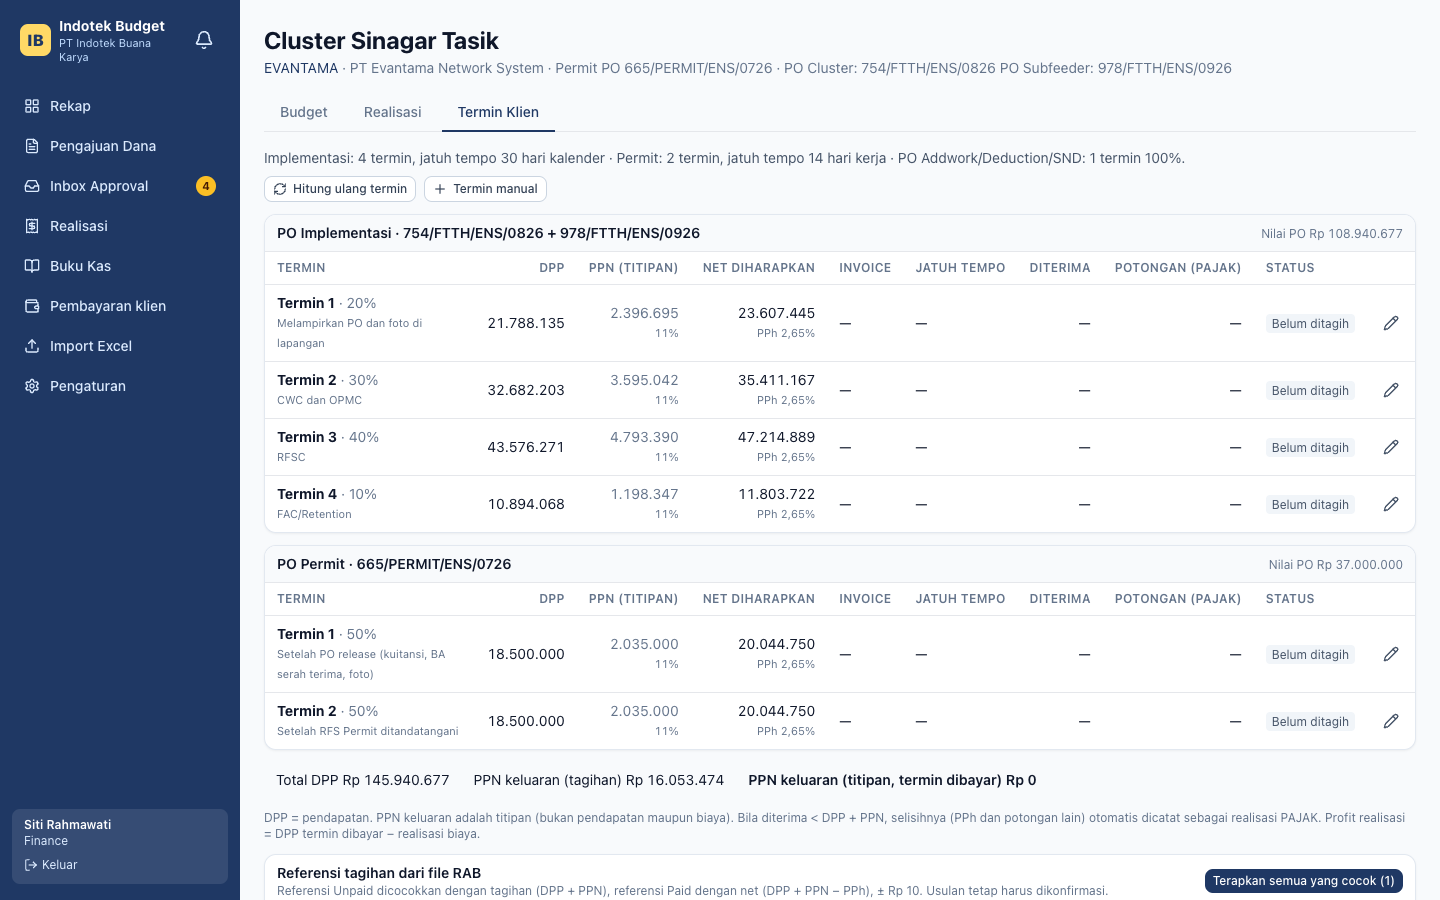
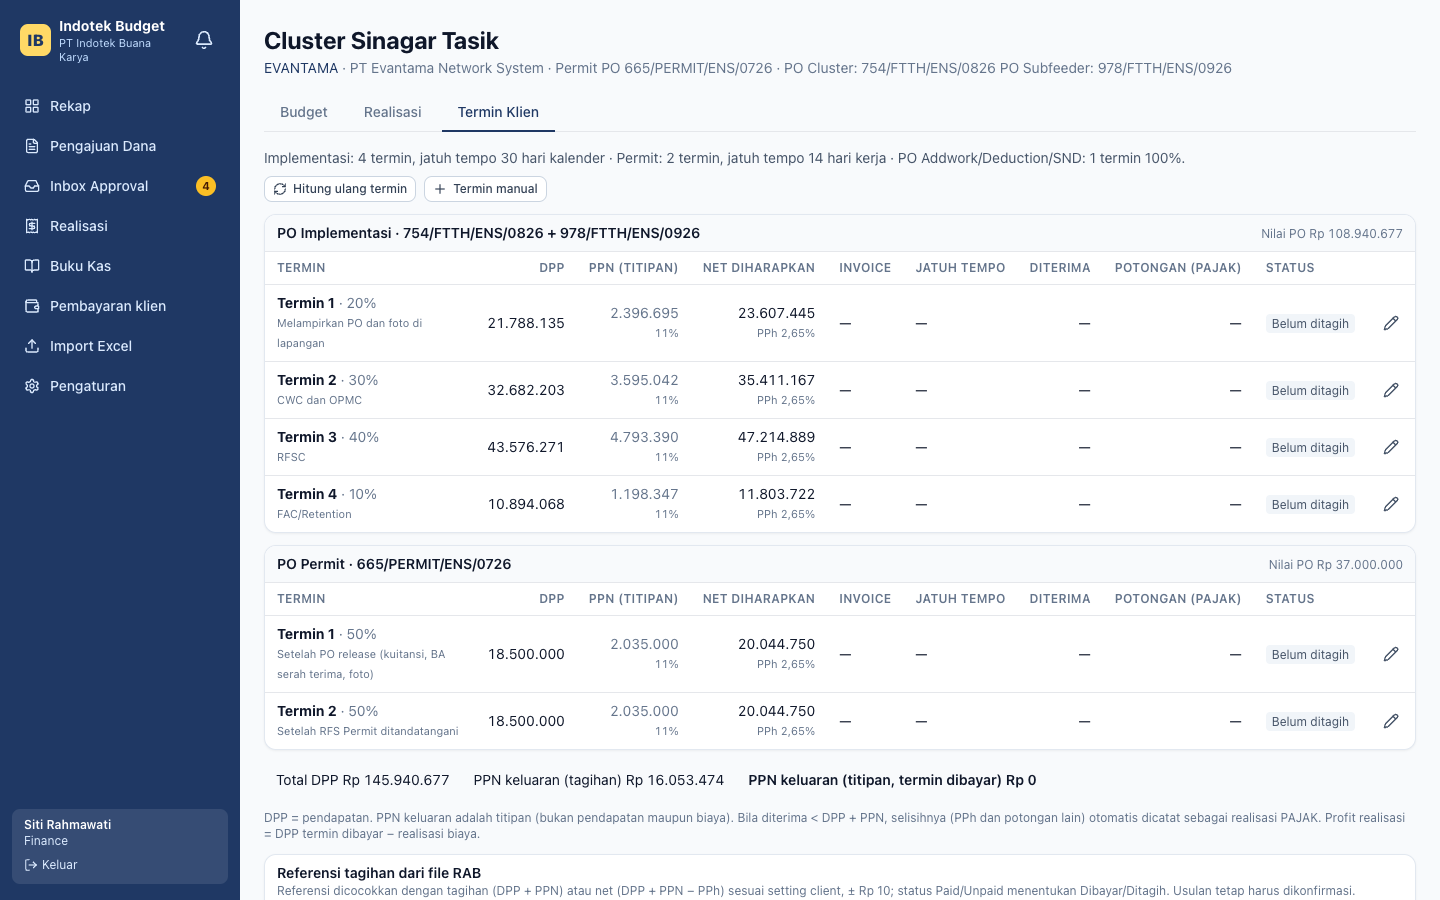
feat: nilai referensi RAB per client (INVOICE_TOTAL / NET); EVANTAMA = NET (patch 2.6)
- Client.referenceValueType; pencocokan memakai tagihan atau net sesuai client; status Paid/Unpaid hanya menentukan PAID vs INVOICED
- PATCH /clients/:id/reference-value-type (ADMIN, diaudit) + pilihan di Data Master

Changed region(s): [[0.2188, 0.9644, 1.0, 0.9956]]

diff --git a/apps/api/test/phase23.e2e-spec.ts b/apps/api/test/phase23.e2e-spec.ts
@@ -350,7 +350,10 @@ describe('Perbaikan 2.4 — PPN per client, pencocokan "cocok di DPP", pembayara
     await ctx.api('admin').patch(`/clients/${ccsi.id}/ppn`, { ppnRate: original }).expect(200);
   });
 
-  it('aturan C: referensi Unpaid = tagihan (DPP + PPN); referensi = DPP termin → "cocok di DPP" (perlu konfirmasi pajak), tidak diterapkan otomatis', async () => {
+  it('nilai referensi per client: EVANTAMA = NET untuk semua status (Unpaid → INVOICED); referensi = DPP termin → "cocok di DPP" (perlu konfirmasi pajak)', async () => {
+    const ev = await ctx.prisma.client.findUniqueOrThrow({ where: { name: 'PT Evantama Network System' } });
+    expect(ev.referenceValueType).toBe('NET');
+    await ctx.api('finance').patch(`/clients/${ev.id}/reference-value-type`, { referenceValueType: 'INVOICE_TOTAL' }).expect(403);
     const rw04 = await clusterId(ctx.prisma, 'EVANTAMA', 'Cluster Kersanagara RW 04 Tasik');
     const c = await cluster(rw04);
     const list0 = await ctx.api('finance').get(`/clusters/${rw04}/client-payments`).expect(200);
@@ -364,12 +367,19 @@ describe('Perbaikan 2.4 — PPN per client, pencocokan "cocok di DPP", pembayara
     const res = await ctx.api('finance').post(`/clusters/${rw04}/client-payments/apply-matched`, { refIds: [dpp.id] }).expect(201);
     expect(res.body.applied).toEqual([]);
     await ctx.prisma.clientInvoiceRef.delete({ where: { id: dpp.id } });
-    // Unpaid = tagihan DPP + PPN → cocok (INVOICE) → diterapkan sebagai INVOICED
-    const inv = await ctx.prisma.clientInvoiceRef.create({
-      data: { sourceRef: 'UJI:INV', projectId: c.projectId, clusterId: rw04, termin: 1, invoiceNo: 'INV-UJI-INV', netAmount: t1.invoiceTotal, statusText: 'Unpaid', paid: false },
+    // tagihan DPP + PPN tidak cocok untuk client NET
+    const tagihan = await ctx.prisma.clientInvoiceRef.create({
+      data: { sourceRef: 'UJI:TAGIHAN', projectId: c.projectId, clusterId: rw04, termin: 1, invoiceNo: 'INV-UJI-TAG', netAmount: t1.invoiceTotal, statusText: 'Unpaid', paid: false },
     });
     list = await ctx.api('finance').get(`/clusters/${rw04}/client-payments`).expect(200);
-    expect(list.body.invoiceRefs.find((x: { id: string }) => x.id === inv.id).suggestion).toMatchObject({ mode: 'NET', basis: 'INVOICE', paymentId: t1.id });
+    expect(list.body.invoiceRefs.find((x: { id: string }) => x.id === tagihan.id).suggestion).toBeNull();
+    await ctx.prisma.clientInvoiceRef.delete({ where: { id: tagihan.id } });
+    // Unpaid = net DPP + PPN − PPh → cocok (NET) → diterapkan sebagai INVOICED
+    const inv = await ctx.prisma.clientInvoiceRef.create({
+      data: { sourceRef: 'UJI:INV', projectId: c.projectId, clusterId: rw04, termin: 1, invoiceNo: 'INV-UJI-INV', netAmount: t1.expectedNet, statusText: 'Unpaid', paid: false },
+    });
+    list = await ctx.api('finance').get(`/clusters/${rw04}/client-payments`).expect(200);
+    expect(list.body.invoiceRefs.find((x: { id: string }) => x.id === inv.id).suggestion).toMatchObject({ mode: 'NET', basis: 'NET', paymentId: t1.id });
     await ctx.api('finance').post(`/clusters/${rw04}/client-payments/apply-matched`, { refIds: [inv.id] }).expect(201);
     expect((await ctx.prisma.clientPayment.findUniqueOrThrow({ where: { id: t1.id } })).status).toBe('INVOICED');
     await ctx.prisma.clientInvoiceRef.update({ where: { id: inv.id }, data: { appliedPaymentId: null } });
@@ -400,7 +410,15 @@ describe('Perbaikan 2.4 — PPN per client, pencocokan "cocok di DPP", pembayara
       data: { sourceRef: 'UJI:CCSI-004', projectId: c.projectId, clusterId: null, invoiceNo: 'INV-UJI-004', netAmount: '16325969', statusText: 'Unpaid', paid: false },
     });
     const l2 = await ctx.api('finance').get(`/clusters/${kal}/client-payments`).expect(200);
-    expect(l2.body.invoiceRefs.find((x: { id: string }) => x.id === ref.id).suggestion).toMatchObject({ mode: 'NET', basis: 'INVOICE', paymentId: impl[0].id, termin: 1 });
+    // termin terkecil yang belum diambil referensi lain (INV-RAA/004 asli bisa sudah mengambil termin 1 bila RAB diimpor lebih dulu)
+    const takenByOthers = new Set(
+      l2.body.invoiceRefs
+        .filter((x: { id: string }) => x.id !== ref.id)
+        .map((x: { suggestion: { paymentId: string } | null; appliedPaymentId: string | null }) => x.suggestion?.paymentId ?? x.appliedPaymentId)
+        .filter(Boolean),
+    );
+    const expected = impl.slice(0, 3).find((p: { id: string; status: string }) => !takenByOthers.has(p.id) && p.status !== 'PAID');
+    expect(l2.body.invoiceRefs.find((x: { id: string }) => x.id === ref.id).suggestion).toMatchObject({ mode: 'NET', basis: 'INVOICE_TOTAL', paymentId: expected.id, termin: expected.termin });
     await ctx.prisma.clientInvoiceRef.delete({ where: { id: ref.id } });
   });
 

diff --git a/apps/api/src/realization/client-payments.service.ts b/apps/api/src/realization/client-payments.service.ts
@@ -130,12 +130,12 @@ function flat(p: ClientPayment | null) {
 
 export interface RefSuggestion {
   /**
-   * NET = nilai referensi cocok dengan nilai pembanding aturan C (Paid: DPP + PPN − PPh; Unpaid: DPP + PPN);
+   * NET = nilai referensi cocok dengan nilai pembanding sesuai setting client (Client.referenceValueType);
    * DPP = nilai referensi = DPP termin (tanpa PPN/PPh) — perlu konfirmasi pajak.
    */
   mode: 'NET' | 'DPP';
-  /** Nilai pembanding yang dipakai: NET_PAID (net diharapkan), INVOICE (tagihan), DPP. */
-  basis: 'NET_PAID' | 'INVOICE' | 'DPP';
+  /** Nilai pembanding yang dipakai (setting client): NET (DPP + PPN − PPh), INVOICE_TOTAL (DPP + PPN), atau DPP. */
+  basis: 'NET' | 'INVOICE_TOTAL' | 'DPP';
   /** Mode DPP: perlu konfirmasi pajak (mis. invoice tanpa PPN) — tidak ikut "Terapkan semua yang cocok". */
   perluKonfirmasiPajak: boolean;
   paymentId: string;
@@ -153,6 +153,8 @@ export interface RefSuggestion {
  * Satu termin hanya diusulkan untuk satu referensi (yang pertama, urut invoice).
  */
 export async function referenceMatches(db: Db, projectId: string) {
+  const project = await db.project.findUniqueOrThrow({ where: { id: projectId }, include: { client: true } });
+  const valueType = project.client.referenceValueType;
   const refs = await db.clientInvoiceRef.findMany({ where: { projectId }, orderBy: [{ blockTitle: 'asc' }, { termin: 'asc' }, { invoiceNo: 'asc' }] });
   const payments = await db.clientPayment.findMany({
     where: { cluster: { projectId }, status: { not: 'PAID' }, invoiceRefs: { none: {} } },
@@ -165,10 +167,10 @@ export async function referenceMatches(db: Db, projectId: string) {
       out.set(r.id, { suggestion: null, ambiguous: false });
       continue;
     }
-    // aturan C: Paid → net diharapkan (DPP + PPN − PPh); Unpaid → tagihan (DPP + PPN)
+    // nilai pembanding per client (INVOICE_TOTAL / NET); status Paid/Unpaid hanya menentukan PAID vs INVOICED
     const cands = payments
       .filter((p) => !taken.has(p.id) && (!r.clusterId || p.clusterId === r.clusterId))
-      .map((p) => ({ id: p.id, termin: p.termin, expectedNet: referenceTarget(paymentTax(p), r.paid), group: p.poId, p }));
+      .map((p) => ({ id: p.id, termin: p.termin, expectedNet: referenceTarget(paymentTax(p), valueType), group: p.poId, p }));
     let m = matchReferenceToTermin({ netAmount: r.netAmount?.toString() ?? null, termin: r.termin }, cands);
     let mode: 'NET' | 'DPP' = 'NET';
     if (!m.match && !m.ambiguous) {
@@ -188,7 +190,7 @@ export async function referenceMatches(db: Db, projectId: string) {
       out.set(r.id, {
         suggestion: {
           mode,
-          basis: mode === 'DPP' ? 'DPP' : r.paid ? 'NET_PAID' : 'INVOICE',
+          basis: mode === 'DPP' ? 'DPP' : valueType,
           perluKonfirmasiPajak: mode === 'DPP',
           paymentId: m.match.id,
           clusterId: m.match.p.clusterId,
@@ -202,7 +204,7 @@ export async function referenceMatches(db: Db, projectId: string) {
       });
     } else out.set(r.id, { suggestion: null, ambiguous: m.ambiguous });
   }
-  return { refs, matches: out };
+  return { refs, matches: out, valueType };
 }
 
 /**

diff --git a/apps/api/scripts/apply-ccsi.ts b/apps/api/scripts/apply-ccsi.ts
@@ -16,7 +16,7 @@ import type { AuthUser } from '../src/auth/auth.types';
 async function report(prisma: PrismaClient, code: string) {
   const f = (v: { toString(): string }) => formatAngka(moneyStr(v.toString()));
   const project = await prisma.project.findUniqueOrThrow({ where: { code } });
-  const { refs, matches } = await referenceMatches(prisma, project.id);
+  const { refs, matches, valueType } = await referenceMatches(prisma, project.id);
   const payments = await prisma.clientPayment.findMany({ where: { cluster: { projectId: project.id } }, include: { cluster: true } });
   console.log(`\n=== ${code}: ${refs.length} referensi`);
   for (const r of refs) {
@@ -25,11 +25,11 @@ async function report(prisma: PrismaClient, code: string) {
     if (r.appliedPaymentId) {
       const p = payments.find((x) => x.id === r.appliedPaymentId)!;
       const tax = paymentTax(p);
-      const target = r.paid ? tax.expectedNet : tax.invoiceTotal;
+      const target = valueType === 'NET' ? tax.expectedNet : tax.invoiceTotal;
       const ok = dec(r.netAmount?.toString() ?? 0).minus(target).abs().lte(10);
-      line = `SUDAH DITERAPKAN → ${p.cluster.name} ${p.kind} termin ${p.termin} [${p.status}] · aturan C ${r.paid ? 'net' : 'tagihan'} ${f(target)} → ${ok ? 'tetap cocok' : `TIDAK cocok lagi (nilai referensi = net ${f(tax.expectedNet)})`}`;
+      line = `SUDAH DITERAPKAN → ${p.cluster.name} ${p.kind} termin ${p.termin} [${p.status}] · ${valueType === 'NET' ? 'net' : 'tagihan'} ${f(target)} → ${ok ? 'cocok' : 'TIDAK cocok'}`;
     } else if (m?.suggestion) {
-      line = `${m.suggestion.mode === 'DPP' ? 'COCOK DI DPP (perlu konfirmasi pajak)' : `COCOK (${m.suggestion.basis === 'INVOICE' ? 'tagihan DPP + PPN' : 'net DPP + PPN − PPh'})`} → ${m.suggestion.clusterName} ${m.suggestion.kind} termin ${m.suggestion.termin} (${f(m.suggestion.expectedNet)})`;
+      line = `${m.suggestion.mode === 'DPP' ? 'COCOK DI DPP (perlu konfirmasi pajak)' : `COCOK (${m.suggestion.basis === 'INVOICE_TOTAL' ? 'tagihan DPP + PPN' : 'net DPP + PPN − PPh'})`} → ${m.suggestion.clusterName} ${m.suggestion.kind} termin ${m.suggestion.termin} (${f(m.suggestion.expectedNet)})`;
     } else {
       // petunjuk: apakah nilainya sama dengan net diharapkan suatu termin (pola aturan lama)?
       const cands = payments.filter((p) => !r.clusterId || p.clusterId === r.clusterId).map((p) => ({ id: p.id, termin: p.termin, expectedNet: paymentTax(p).expectedNet, p }));

diff --git a/apps/web/src/pages/MasterPage.tsx b/apps/web/src/pages/MasterPage.tsx
@@ -5,6 +5,7 @@ import { Link } from 'react-router-dom';
 import { ROLE_LABEL } from '@indotek/shared';
 import { api, errorMessage } from '../api/client';
 import type { Client, Project } from '../api/types';
+import { REFERENCE_VALUE_TYPES, REFERENCE_VALUE_TYPE_LABEL } from '@indotek/shared';
 import { pctInputToRatio, ratioToPctInput } from '../lib/format';
 import { useAuth } from '../auth/AuthContext';
 import { ErrorBox, Field, Modal, PageHeader, Spinner } from '../components/ui';
@@ -131,6 +132,10 @@ function ClientPpnRow({ client }: { client: Client }) {
   const [edit, setEdit] = useState(false);
   const [v, setV] = useState(client.ppnRate != null ? ratioToPctInput(client.ppnRate) : '');
   const [reason, setReason] = useState('');
+  const saveRef = useMutation({
+    mutationFn: (referenceValueType: string) => api(`/clients/${client.id}/reference-value-type`, { method: 'PATCH', json: { referenceValueType } }),
+    onSuccess: () => qc.invalidateQueries({ queryKey: ['clients'] }),
+  });
   const save = useMutation({
     mutationFn: () => api(`/clients/${client.id}/ppn`, { method: 'PATCH', json: { ppnRate: v.trim() === '' ? null : pctInputToRatio(v), reason: reason || null } }),
     onSuccess: async () => {
@@ -146,6 +151,22 @@ function ClientPpnRow({ client }: { client: Client }) {
           PPN termin: {client.ppnRate != null ? `${ratioToPctInput(client.ppnRate)}%` : 'ikut global'}
           {can('ADMIN') && !edit && <button className="ml-2 text-brand hover:underline" onClick={() => setEdit(true)}>ubah</button>}
         </span>
+      </div>
+      <div className="mt-0.5 flex items-center justify-end gap-2 text-xs text-slate-500">
+        Nilai referensi RAB:
+        {can('ADMIN') ? (
+          <select
+            className="input w-auto py-0.5 text-xs"
+            value={client.referenceValueType ?? 'INVOICE_TOTAL'}
+            disabled={saveRef.isPending}
+            onChange={(e) => saveRef.mutate(e.target.value)}
+            aria-label={`Nilai referensi ${client.name}`}
+          >
+            {REFERENCE_VALUE_TYPES.map((t) => <option key={t} value={t}>{REFERENCE_VALUE_TYPE_LABEL[t]}</option>)}
+          </select>
+        ) : (
+          <span>{REFERENCE_VALUE_TYPE_LABEL[client.referenceValueType ?? 'INVOICE_TOTAL']}</span>
+        )}
       </div>
       {edit && (
         <div className="mt-1 flex flex-wrap items-center gap-2">

diff --git a/apps/api/scripts/split-evantama-po.ts b/apps/api/scripts/split-evantama-po.ts
@@ -66,7 +66,7 @@ async function main() {
 
   // simulasi pencocokan referensi implementasi yang belum diterapkan
   const refs = await prisma.clientInvoiceRef.findMany({ where: { projectId: project.id, appliedPaymentId: null, blockTitle: { contains: 'Implementasi' } } });
-  console.log('\n=== Simulasi pencocokan referensi implementasi setelah pemecahan (aturan C: Paid → DPP + PPN − PPh; Unpaid → DPP + PPN; ± Rp 10)');
+  console.log(`\n=== Simulasi pencocokan referensi implementasi setelah pemecahan (nilai referensi client: ${project.client.referenceValueType}; ± Rp 10)`);
   const taken = new Set<string>();
   let ok = 0;
   for (const r of refs) {
@@ -74,16 +74,16 @@ async function main() {
     const sub = /subfeeder/i.test(block);
     const cands = simTermins
       .filter((t) => !taken.has(t.id) && t.label.includes(sub ? 'SUBFEEDER' : 'CLUSTER'))
-      .map((t) => ({ ...t, expectedNet: moneyStr(referenceTarget(t, r.paid)) }));
+      .map((t) => ({ ...t, expectedNet: moneyStr(referenceTarget(t, project.client.referenceValueType)) }));
     const m = matchReferenceToTermin({ netAmount: r.netAmount?.toString() ?? null, termin: r.termin }, cands);
     if (m.match) {
       taken.add(m.match.id);
       ok++;
     }
-    const byNet = !m.match && !r.paid ? simTermins.find((t) => dec(t.expectedNet).minus(dec(r.netAmount?.toString() ?? 0)).abs().lte(10)) : undefined;
+    const byNet = !m.match && project.client.referenceValueType !== 'NET' ? simTermins.find((t) => dec(t.expectedNet).minus(dec(r.netAmount?.toString() ?? 0)).abs().lte(10)) : undefined;
     console.log(
       `   ${r.invoiceNo} ${block} ${r.paid ? 'Paid' : 'Unpaid'} ${f(r.netAmount ?? 0)} → ${
-        m.match ? `COCOK ${m.match.label} (${r.paid ? 'net' : 'tagihan'} ${f(m.match.expectedNet)})` : `tidak cocok${byNet ? ` (nilainya = net diharapkan ${byNet.label}, bukan tagihan)` : ''}`
+        m.match ? `COCOK ${m.match.label} (${project.client.referenceValueType === 'NET' ? 'net' : 'tagihan'} ${f(m.match.expectedNet)})` : `tidak cocok${byNet ? ` (nilainya = net diharapkan ${byNet.label}, bukan tagihan)` : ''}`
       }`,
     );
   }

diff --git a/apps/web/src/components/ClientPaymentsTab.tsx b/apps/web/src/components/ClientPaymentsTab.tsx
@@ -238,7 +238,7 @@ export function ClientPaymentsTab({ clusterId }: { clusterId: string }) {
         <div className="flex flex-wrap items-center justify-between gap-2 border-b px-3 py-2">
           <div>
             <h3 className="text-sm font-semibold">Referensi tagihan dari file RAB</h3>
-            <p className="text-xs text-slate-500">Referensi Unpaid dicocokkan dengan tagihan (DPP + PPN), referensi Paid dengan net (DPP + PPN − PPh), ± Rp 10. Usulan tetap harus dikonfirmasi.</p>
+            <p className="text-xs text-slate-500">Referensi dicocokkan dengan tagihan (DPP + PPN) atau net (DPP + PPN − PPh) sesuai setting client, ± Rp 10; status Paid/Unpaid menentukan Dibayar/Ditagih. Usulan tetap harus dikonfirmasi.</p>
           </div>
           {editable && matched.length > 0 && (
             <button className="btn-primary px-2 py-1 text-xs" onClick={() => setBulkOpen(true)}>Terapkan semua yang cocok ({matched.length})</button>
@@ -264,7 +264,7 @@ export function ClientPaymentsTab({ clusterId }: { clusterId: string }) {
                       </span>
                     ) : r.suggestion ? (
                       <span className="text-emerald-700">
-                        <b>cocok</b>{r.suggestion.basis === 'INVOICE' ? ' (tagihan)' : r.suggestion.basis === 'NET_PAID' ? ' (net dibayar)' : ''} → {r.suggestion.clusterId === clusterId ? termLabelById(r.suggestion.paymentId) : `${r.suggestion.clusterName} termin ${r.suggestion.termin}`}
+                        <b>cocok</b>{r.suggestion.basis === 'INVOICE_TOTAL' ? ' (tagihan)' : r.suggestion.basis === 'NET' ? ' (net)' : ''} → {r.suggestion.clusterId === clusterId ? termLabelById(r.suggestion.paymentId) : `${r.suggestion.clusterName} termin ${r.suggestion.termin}`}
                         {r.suggestion.selisih !== '0.00' && <span className="text-slate-500"> (selisih {formatAngka(r.suggestion.selisih, 2)})</span>}
                       </span>
                     ) : r.ambiguous ? (

diff --git a/apps/api/src/clients/clients.controller.ts b/apps/api/src/clients/clients.controller.ts
@@ -1,6 +1,6 @@
 import { Controller, Delete, Get, Param, Patch, Post, ConflictException } from '@nestjs/common';
 import { ApiCookieAuth, ApiTags } from '@nestjs/swagger';
-import { clientPpnSchema, clientSchema, type ClientPpnInput } from '@indotek/shared';
+import { clientPpnSchema, clientRefValueSchema, clientSchema, type ClientPpnInput, type ClientRefValueInput } from '@indotek/shared';
 import { rate, s } from '../common/decimal';
 import { PrismaService } from '../prisma/prisma.service';
 import { AuditService } from '../audit/audit.service';
@@ -52,6 +52,17 @@ export class ClientsController {
     const before = await this.prisma.client.findUniqueOrThrow({ where: { id } });
     const c = await this.prisma.client.update({ where: { id }, data: { ppnRate: body.ppnRate === null ? null : rate(body.ppnRate) } });
     await this.audit.diff(this.prisma, user.id, 'Client', id, { ppnRate: s(before.ppnRate), alasan: null }, { ppnRate: s(c.ppnRate), alasan: body.reason ?? null });
+    return c;
+  }
+
+  /** Nilai yang dicatat di referensi tagihan RAB client ini (INVOICE_TOTAL / NET) — dasar pencocokan. Khusus ADMIN. */
+  @Patch(':id/reference-value-type')
+  @Roles('ADMIN')
+  @ApiZodBody(clientRefValueSchema)
+  async setRefValue(@CurrentUser() user: AuthUser, @Param('id') id: string, @ZBody(clientRefValueSchema) body: ClientRefValueInput) {
+    const before = await this.prisma.client.findUniqueOrThrow({ where: { id } });
+    const c = await this.prisma.client.update({ where: { id }, data: { referenceValueType: body.referenceValueType } });
+    await this.audit.diff(this.prisma, user.id, 'Client', id, { referenceValueType: before.referenceValueType, alasan: null }, { referenceValueType: c.referenceValueType, alasan: body.reason ?? null });
     return c;
   }
 

diff --git a/apps/api/src/import/patch-2-6-ref-value.ts b/apps/api/src/import/patch-2-6-ref-value.ts
@@ -1,0 +1,22 @@
+import type { PrismaClient } from '@prisma/client';
+import type { AuditService } from '../audit/audit.service';
+
+export const PATCH_26 = '2.6-nilai-referensi-per-client';
+const ALASAN = 'keputusan user penutup Fase 2: RAB EVANTAMA mencatat nilai net (DPP + PPN − PPh) untuk semua status';
+
+/** Client EVANTAMA: referensi tagihan RAB bernilai NET. ADW & CCSI tetap INVOICE_TOTAL (default). Idempotent, diaudit. */
+export async function applyPatch26(prisma: PrismaClient, audit: AuditService, userId: string | null): Promise<string[]> {
+  if (await prisma.dataPatch.findUnique({ where: { name: PATCH_26 } })) return [];
+  const ev = await prisma.client.findUnique({ where: { name: 'PT Evantama Network System' } });
+  if (!ev) return ['Patch 2.6 ditunda: client Evantama belum ada'];
+  const log: string[] = [];
+  await prisma.$transaction(async (tx) => {
+    if (ev.referenceValueType !== 'NET') {
+      await tx.client.update({ where: { id: ev.id }, data: { referenceValueType: 'NET' } });
+      await audit.diff(tx, userId, 'Client', ev.id, { referenceValueType: ev.referenceValueType, alasan: null }, { referenceValueType: 'NET', alasan: ALASAN });
+      log.push('Client Evantama: referensi RAB = NET');
+    }
+    await tx.dataPatch.create({ data: { name: PATCH_26, note: log.join('; ') || 'sudah NET' } });
+  });
+  return log;
+}

diff --git a/packages/shared/src/calc/ppn.test.ts b/packages/shared/src/calc/ppn.test.ts
@@ -58,3 +58,19 @@ describe('Margin permit hanya PO PERMIT (SND dikeluarkan)', () => {
     expect(moneyStr(r.marginPermit)).toBe('-1081510.92');
   });
 });
+
+describe('Acuan W — nilai referensi per client (INVOICE_TOTAL / NET)', () => {
+  it('EVANTAMA NET: permit RW 08 4.875.750 = 4.500.000 + PPN 495.000 − PPh 119.250; Sinagar permit t2 20.044.750', async () => {
+    const { referenceTarget } = await import('./realization');
+    const rw08 = terminTax({ amount: '4500000', ppnRate: '0.11', pphRate: '0.0265' });
+    expect(moneyStr(rw08.ppn)).toBe('495000.00');
+    expect(moneyStr(rw08.pph)).toBe('119250.00');
+    expect(moneyStr(referenceTarget(rw08, 'NET'))).toBe('4875750.00');
+    expect(moneyStr(referenceTarget(rw08, 'INVOICE_TOTAL'))).toBe('4995000.00');
+    expect(moneyStr(referenceTarget(terminTax({ amount: '18500000', ppnRate: '0.11', pphRate: '0.0265' }), 'NET'))).toBe('20044750.00');
+  });
+  it('CCSI INVOICE_TOTAL dengan PPN 0: tagihan = DPP', async () => {
+    const { referenceTarget } = await import('./realization');
+    expect(moneyStr(referenceTarget(terminTax({ amount: '10212800', ppnRate: '0', pphRate: '0.025' }), 'INVOICE_TOTAL'))).toBe('10212800.00');
+  });
+});

diff --git a/packages/shared/src/calc/realization.ts b/packages/shared/src/calc/realization.ts
@@ -101,12 +101,13 @@ export function calcRealizedProfit(
 export const REF_MATCH_TOLERANCE = 10;
 
 /**
- * Nilai pembanding termin untuk referensi tagihan RAB (aturan Fase 2.4 C, semua client):
- *  - referensi Paid    → net diharapkan (DPP + PPN − PPh), diterapkan sebagai PAID;
- *  - referensi Unpaid  → nilai tagihan (DPP + PPN), diterapkan sebagai INVOICED.
+ * Nilai pembanding termin untuk referensi tagihan RAB — diatur PER CLIENT (keputusan penutup Fase 2):
+ *  - INVOICE_TOTAL (default; ADW, CCSI): referensi = tagihan DPP + PPN;
+ *  - NET (EVANTAMA): referensi = net DPP + PPN − PPh, untuk semua status.
+ * Status Paid/Unpaid di referensi hanya menentukan termin diterapkan sebagai PAID atau INVOICED.
  */
-export function referenceTarget(tax: { invoiceTotal: Num; expectedNet: Num }, paid: boolean): D {
-  return dec(paid ? tax.expectedNet : tax.invoiceTotal);
+export function referenceTarget(tax: { invoiceTotal: Num; expectedNet: Num }, valueType: 'INVOICE_TOTAL' | 'NET'): D {
+  return dec(valueType === 'NET' ? tax.expectedNet : tax.invoiceTotal);
 }
 
 /**

diff --git a/apps/api/prisma/seed.ts b/apps/api/prisma/seed.ts
@@ -11,6 +11,7 @@ import { applyPatch22 } from '../src/import/patch-2-2';
 import { applyPatch23 } from '../src/import/patch-2-3';
 import { applyPatch24 } from '../src/import/patch-2-4';
 import { applyCcsiDecisions } from '../src/import/patch-2-5-ccsi';
+import { applyPatch26 } from '../src/import/patch-2-6-ref-value';
 import { SettingsService } from '../src/settings/settings.service';
 import type { PrismaService } from '../src/prisma/prisma.service';
 
@@ -261,6 +262,8 @@ async function main() {
   if (patch24.length) console.log(`Patch keputusan 2.4: ${patch24.join('; ')}`);
   const patch25 = await applyCcsiDecisions(prisma, audit, admin?.id ?? null, true);
   if (patch25.length) console.log(`Patch keputusan CCSI (2.5): ${patch25.length} langkah`);
+  const patch26 = await applyPatch26(prisma, audit, admin?.id ?? null);
+  if (patch26.length) console.log(`Patch 2.6: ${patch26.join('; ')}`);
 
   const counts = await prisma.project.findMany({
     select: { code: true, _count: { select: { clusters: true } } },

diff --git a/apps/web/src/api/types.ts b/apps/web/src/api/types.ts
@@ -37,6 +37,8 @@ export interface Client {
   name: string;
   /** PPN termin untuk client ini (null = ikut Setting global) */
   ppnRate?: string | null;
+  /** Nilai referensi tagihan RAB client: tagihan (DPP + PPN) atau net (DPP + PPN − PPh) */
+  referenceValueType?: 'INVOICE_TOTAL' | 'NET';
 }
 
 export interface Project {
@@ -421,7 +423,7 @@ export interface ClientInvoiceRef {
   paid: boolean;
   appliedPaymentId: string | null;
   appliedAt: string | null;
-  suggestion: { mode: 'NET' | 'DPP'; basis?: 'NET_PAID' | 'INVOICE' | 'DPP'; perluKonfirmasiPajak: boolean; paymentId: string; clusterId: string; clusterName: string; kind: TerminKind; termin: number; expectedNet: string; selisih: string } | null;
+  suggestion: { mode: 'NET' | 'DPP'; basis?: 'NET' | 'INVOICE_TOTAL' | 'DPP'; perluKonfirmasiPajak: boolean; paymentId: string; clusterId: string; clusterName: string; kind: TerminKind; termin: number; expectedNet: string; selisih: string } | null;
   ambiguous: boolean;
 }
 
